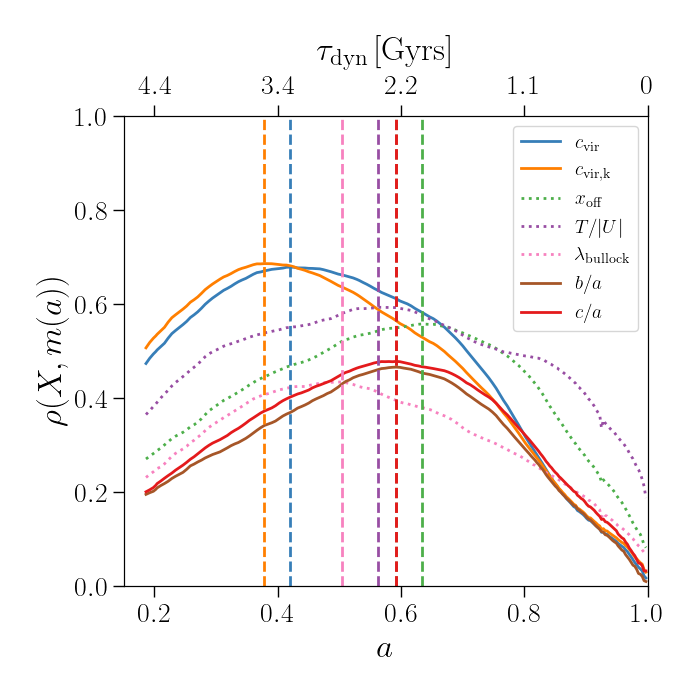
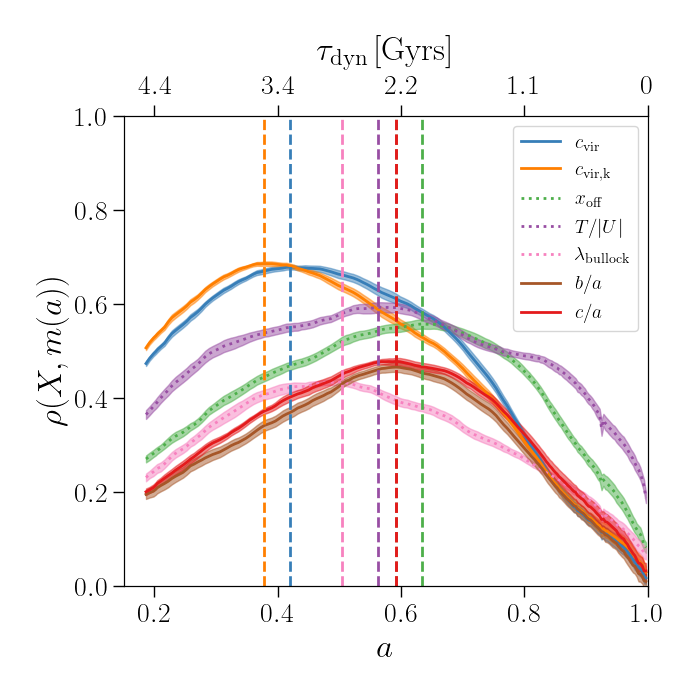
error bands added to correlations

Changed region(s): [[0.21, 0.36, 0.93, 0.84], [0.81, 0.54, 0.84, 0.57]]

diff --git a/bin/figures.py b/bin/figures.py
@@ -13,8 +13,7 @@ from astropy import units as u
 
 from relaxed import plotting as rxplots
 from relaxed.correlations import add_box_indices
-from relaxed.correlations import get_am_corrs
-from relaxed.correlations import get_ma_corrs
+from relaxed.correlations import get_2d_corr
 from relaxed.correlations import spearmanr
 from relaxed.correlations import vol_jacknife_err
 from relaxed.cosmo import get_a_from_t
@@ -94,6 +93,7 @@ class CorrelationMAH(Figure):
         am = mah_data["am"]
         ma = mah_data["ma"]
         mass_bins = mah_data["mass_bins"]
+        add_box_indices(cat)
 
         # remove last index to avoid correlation warning.
         ma = ma[:, :-1]
@@ -102,28 +102,29 @@ class CorrelationMAH(Figure):
         mass_bins = mass_bins[:-1]
 
         tdyn = np.mean(cat["tdyn"]) / 10**9  # Gyr which astropy also returns by default
-        ma_corrs = {}
-        am_corrs = {}
+        ibox = cat["ibox"]
+        ma_data = {}
+        am_data = {}
         ma_max_dict = {}
         am_max_dict = {}
         for param in self.params:
-            # ma
-            ma_corr = get_ma_corrs(cat, param, ma)
-            ma_corrs[param] = ma_corr
+            pvalue = cat[param]
+            ma_corr, ma_err = get_2d_corr(ma, pvalue, ibox)
+            ma_data[param] = (ma_corr, ma_err)
             _corr = abs(ma_corr)
             max_indx = np.nanargmax(_corr)
-            ma_max_dict[param] = scales[max_indx], ma_corr[max_indx]
+            ma_max_dict[param] = (scales[max_indx], ma_corr[max_indx])
 
             # am
-            am_corr = get_am_corrs(cat, param, am)
-            am_corrs[param] = am_corr
+            am_corr, am_err = get_2d_corr(am, pvalue, ibox)
+            am_data[param] = am_corr, am_err
             _corr = abs(am_corr)
             max_indx = np.nanargmax(_corr)
             am_max_dict[param] = mass_bins[max_indx], am_corr[max_indx]
         return {
             "tdyn": tdyn,
-            "ma_corrs": ma_corrs,
-            "am_corrs": am_corrs,
+            "ma_data": ma_data,
+            "am_data": am_data,
             "ma_max_dict": ma_max_dict,
             "am_max_dict": am_max_dict,
             "scales": scales,
@@ -134,13 +135,13 @@ class CorrelationMAH(Figure):
         """Get correlations with m(a) figure"""
         scales = data["scales"]
         tdyn = data["tdyn"]
-        corrs = data["ma_corrs"]
+        ma_data = data["ma_data"]
         max_dict = data["ma_max_dict"]
 
         fig, ax = plt.subplots(1, 1)
 
         for j, param in enumerate(self.params):
-            corr = corrs[param]
+            corr, err = ma_data[param]
             latex_param = rxplots.LATEX_PARAMS[param]
             color = CB_COLORS[j]
             pos = corr > 0
@@ -155,6 +156,8 @@ class CorrelationMAH(Figure):
             if sum(neg) > 0:
                 label = f"${latex_param}$" if sum(pos) < sum(neg) else None
                 ax.plot(scales[neg], _corr[neg], color=color, ls=self.lss[1], label=label)
+
+            ax.fill_between(scales, _corr - err, _corr + err, color=color, alpha=0.5)
 
         # draw a vertical line at max scales
         text = ""
@@ -193,13 +196,13 @@ class CorrelationMAH(Figure):
     def get_am_figure(self, data):
         """Get correlations with a(m) figure"""
         mass_bins = data["mass_bins"]
-        corrs = data["am_corrs"]
+        am_data = data["am_data"]
         max_dict = data["am_max_dict"]
 
         fig, ax = plt.subplots(1, 1)
 
         for j, param in enumerate(self.params):
-            corr = corrs[param]
+            corr, err = am_data[param]
             latex_param = rxplots.LATEX_PARAMS[param]
             color = CB_COLORS[j]
             pos = corr >= 0
@@ -214,6 +217,8 @@ class CorrelationMAH(Figure):
             if sum(neg) > 0:
                 label = f"${latex_param}$" if sum(pos) < sum(neg) else None
                 ax.plot(mass_bins[neg], _corr[neg], color=color, ls=self.lss[1], label=label)
+
+            ax.fill_between(mass_bins, _corr - err, _corr + err, alpha=0.5)
 
         # draw a vertical line at max scales, output table.
         text = ""
@@ -857,10 +862,10 @@ class ForwardPredMetrics(Figure):
 def main():
     ext = "png"
     CorrelationMAH(overwrite=False, ext=ext).save()
-    TriangleSamples(overwrite=False, ext=ext).save()
-    PredictMAH(overwrite=False, ext=ext).save()
-    InvPredMetrics(overwrite=False, ext=ext).save()
-    ForwardPredMetrics(overwrite=False, ext=ext).save()
+    # TriangleSamples(overwrite=False, ext=ext).save()
+    # PredictMAH(overwrite=False, ext=ext).save()
+    # InvPredMetrics(overwrite=False, ext=ext).save()
+    # ForwardPredMetrics(overwrite=False, ext=ext).save()
 
 
 if __name__ == "__main__":

diff --git a/relaxed/correlations.py b/relaxed/correlations.py
@@ -7,30 +7,18 @@ def spearmanr(*args, **kwargs):
     return stats.spearmanr(*args, **kwargs).correlation
 
 
-def get_ma_corrs(cat, param, ma):
-    corrs = []
-    n_scales = ma.shape[1]
-    for k in range(n_scales):
-        keep = (~np.isnan(ma[:, k])) & (ma[:, k] > 0)
-        ma_k = ma[:, k][keep]
+def get_2d_corr(x, y, ibox):
+    assert len(x.shape) == 2 and len(y.shape) == 1
+    assert x.shape[0] == y.shape[0]
+    m = x.shape[1]
+    corrs = np.zeros(m)
+    errs = np.zeros(m)
+    for jj in range(m):
+        x_j = x[:, jj]
+        corrs[jj] = spearmanr(x_j, y)
+        errs[jj] = vol_jacknife_err(x_j, y, ibox, spearmanr)
 
-        # get correlation.
-        assert np.all(ma_k > 0) and np.all(~np.isnan(ma_k))
-        corr = spearmanr(ma_k, cat[param][keep])
-        corrs.append(corr)
-
-    return np.array(corrs)
-
-
-def get_am_corrs(cat, param, am, box_keep=None):
-    if box_keep is None:
-        box_keep = np.ones(am.shape[0]).astype(bool)
-
-    corrs = []
-    n_mass_bins = am.shape[1]
-    for k in range(n_mass_bins):
-        corrs.append(spearmanr(cat[param][box_keep], am[:, k][box_keep], nan_policy="omit"))
-    return np.array(corrs)
+    return corrs, errs
 
 
 def add_box_indices(cat, boxes=8, box_size=250):
@@ -45,14 +33,14 @@ def add_box_indices(cat, boxes=8, box_size=250):
             cat["ibox"] += 2**k * (d < cat[dim])
 
 
-def vol_jacknife_err(y_true, y_est, ibox, fn):
+def vol_jacknife_err(x, y, ibox, fn):
     n_boxes = int(np.max(ibox) + 1)
     values = []
     for b in range(n_boxes):
         box_keep = ibox != b
-        y1 = y_est[box_keep]
-        y2 = y_true[box_keep]
-        value = fn(y1, y2)
+        xb = x[box_keep]
+        yb = y[box_keep]
+        value = fn(xb, yb)
         values.append(value)
     values = np.array(values)
     return np.sqrt(values.var(axis=0) * (n_boxes - 1))

diff --git a/relaxed/mah.py b/relaxed/mah.py
@@ -58,18 +58,16 @@ def get_mah(
     ma = ma.T[keep_scale].T
     ma_peak = ma_peak.T[keep_scale].T
 
-    assert np.sum(np.isnan(ma)) == 0
-
-    # FIXME: Need to filter some f_subs using a similar criteria as with m(a), a(m)
-    # and f_sub(a)
-    # f_sub = np.array([cat[f"f_sub_a{i}"].data for i in indices]).T
-
     # remove haloes with np.nan in a(m)
     keep_am = ~np.isnan(np.sum(am, axis=1))
     cat = cat[keep_am]
     ma = ma[keep_am]
     ma_peak = ma_peak[keep_am]
     am = am[keep_am]
+
+    assert np.sum(np.isnan(ma)) == 0
+    assert np.all(ma > 0)
+    assert np.sum(np.isnan(am)) == 0
 
     return {
         "cat": cat,
